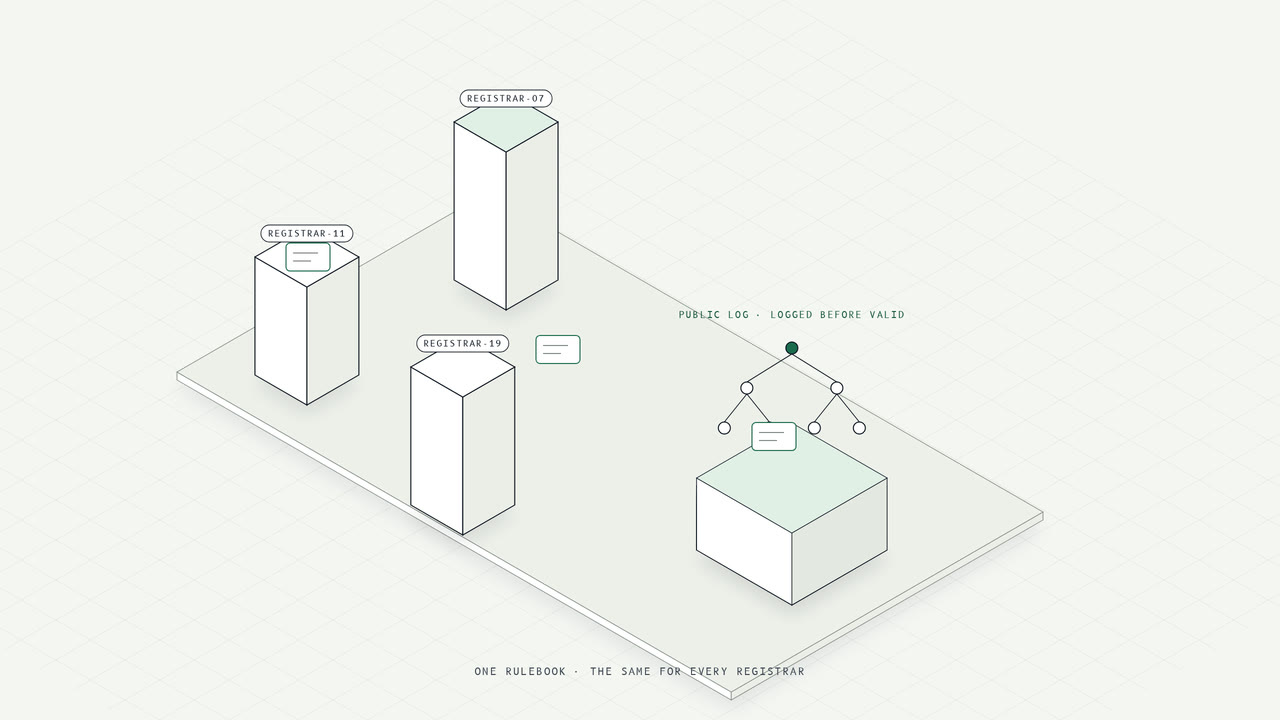
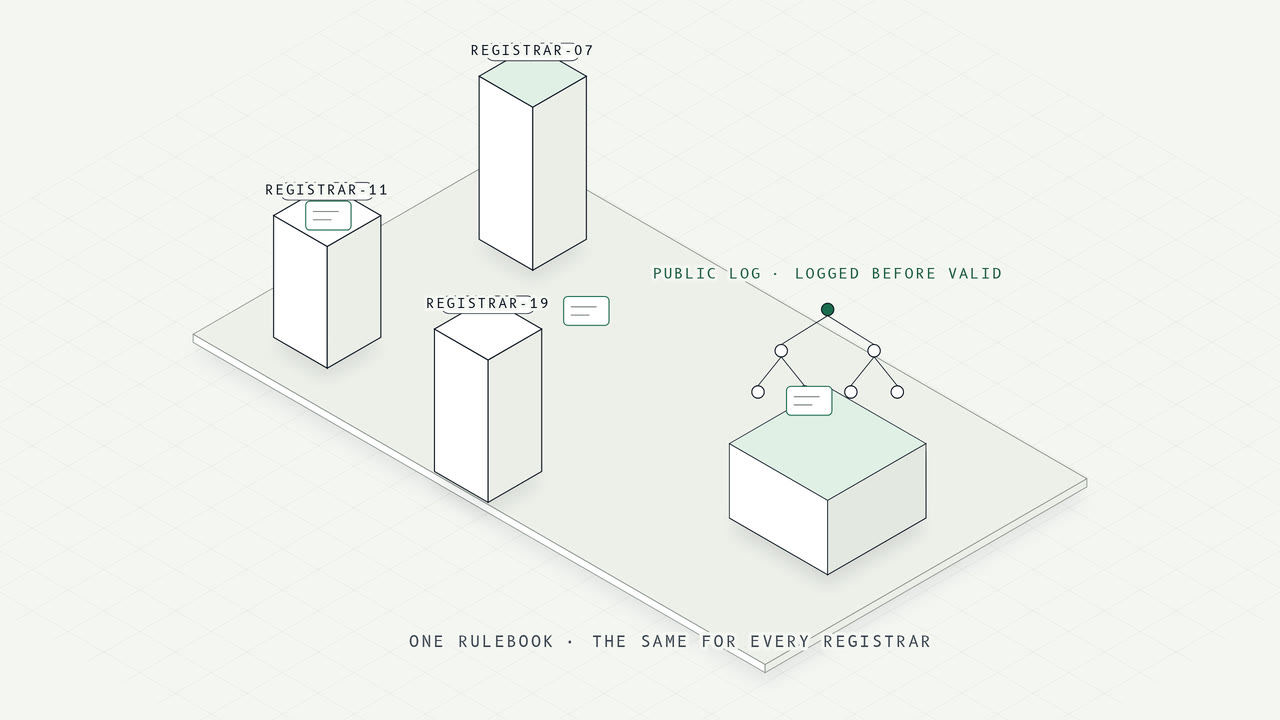
site: words in the drawings readable, Verify paced for a first visit, phone carousel, control room in the menu
From the owner's review of the live site on a phone and a designer's notes:
- every drawing re-rendered from its source with larger, higher-contrast labels (carousel
  scenes x1.6, part previews x1.5, blueprint labels +20% and brighter); collisions fixed
- the "who runs it" panels: the original drawings, centred and a little closer
- Verify clip 16.4 s (scene at 70%, blueprint drawn in fully, 2.5 s hold); dwell follows it
- the caption steps aside while a clip shows its blueprint (data-bp)
- preview popup gets an outer stroke; an icon heads each "what every check asks" card
- phones: chips are one swipe row kept in view, arrows under the clip, no caption box,
  no details panel
- the control room is linked from the menu and footer of every page (owner's choice)
- media re-pinned in MEDIA.sha256 (12 clips), cache versions bumped

diff --git a/site/index.html b/site/index.html
@@ -124,6 +124,7 @@ setTimeout(function(){var h=document.documentElement;if(!h.dataset.rvReady)h.cla
           <li><a href="verify.html">Verify</a><ul><li><a href="verify.html#try">↳ Try a passport</a></li><li><a href="docs.html#verify">↳ How a check works</a></li></ul></li>
           <li><a href="get.html">Network</a></li>
           <li><a href="landscape.html">Landscape</a></li>
+          <li><a href="control.html">Control room</a></li>
           <li><a href="foundation.html">Foundation</a><ul><li><a href="foundation.html#access">↳ Join the founding table</a></li></ul></li>
           <li><a href="docs.html">Docs</a><ul><li><a href="docs.html#standard">↳ The Standard</a></li><li><a href="docs.html#install">↳ Install</a></li></ul></li>
         </ul>
@@ -202,13 +203,13 @@ setTimeout(function(){var h=document.documentElement;if(!h.dataset.rvReady)h.cla
       </div>
       <div class="g-car" data-car aria-roledescription="carousel"><div class="g-car__track" data-car-track></div></div>
       <ol class="vh" data-tab-data>
-        <li data-k="Delegate" data-t="Your agent shows its passport before it pays" data-href="verify.html#try" data-src="media/g/delegate.mp4?v=4"></li>
-        <li data-k="Issue" data-t="A passport is valid only once it is logged" data-href="docs.html#verify" data-src="media/g/issue.mp4?v=4"></li>
-        <li data-k="Verify" data-t="Every request checked on the verifier's own machine" data-href="verify.html#try" data-src="media/g/gate.mp4?v=4"></li>
-        <li data-k="Revoke" data-t="One bit set, and every verifier that checks refuses" data-href="docs.html#verify" data-src="media/g/revoke.mp4?v=4"></li>
-        <li data-k="Running copies" data-t="Each copy carries its own short-lived key" data-href="docs.html#install" data-src="media/g/copies.mp4?v=4"></li>
-        <li data-k="Offline" data-t="No signal, and the check still runs" data-href="https://github.com/JacobJandon/ainra/blob/main/docs/drills/REGISTRAR-DARK.md" data-src="media/g/offline.mp4?v=4"></li>
-        <li data-k="Peer to peer" data-t="Agents present to verifiers; the root is not on the path" data-href="landscape.html" data-src="media/g/network.mp4?v=4"></li>
+        <li data-k="Delegate" data-t="Your agent shows its passport before it pays" data-href="verify.html#try" data-src="media/g/delegate.mp4?v=5" data-bp="3.9"></li>
+        <li data-k="Issue" data-t="A passport is valid only once it is logged" data-href="docs.html#verify" data-src="media/g/issue.mp4?v=5" data-bp="3.9"></li>
+        <li data-k="Verify" data-t="Every request checked on the verifier's own machine" data-href="verify.html#try" data-src="media/g/gate.mp4?v=5" data-bp="5.9"></li>
+        <li data-k="Revoke" data-t="One bit set, and every verifier that checks refuses" data-href="docs.html#verify" data-src="media/g/revoke.mp4?v=5" data-bp="3.9"></li>
+        <li data-k="Running copies" data-t="Each copy carries its own short-lived key" data-href="docs.html#install" data-src="media/g/copies.mp4?v=5" data-bp="3.9"></li>
+        <li data-k="Offline" data-t="No signal, and the check still runs" data-href="https://github.com/JacobJandon/ainra/blob/main/docs/drills/REGISTRAR-DARK.md" data-src="media/g/offline.mp4?v=5" data-bp="3.9"></li>
+        <li data-k="Peer to peer" data-t="Agents present to verifiers; the root is not on the path" data-href="landscape.html" data-src="media/g/network.mp4?v=5" data-bp="3.9"></li>
       </ol>
     </div>
   </div>
@@ -223,25 +224,25 @@ setTimeout(function(){var h=document.documentElement;if(!h.dataset.rvReady)h.cla
   <div class="wrap">
     <div class="g-list__head"><h2 class="g-list__label" id="g-parts">What AINRA is made of</h2></div>
     <ol class="g-rows">
-      <li><a class="g-row" href="docs.html#standard" data-preview="media/g/part-standard.jpg?v=1" data-preview-video="media/g/part-standard.mp4?v=1"><span class="g-row__name">The Standard</span><span class="g-row__d">Defines one passport, and how anyone checks it.</span><span class="g-row__i">/0.1</span></a></li>
-      <li><a class="g-row" href="verify.html#try" data-preview="media/g/part-verifier.jpg?v=1" data-preview-video="media/g/part-verifier.mp4?v=1"><span class="g-row__name">The verifier</span><span class="g-row__d">Checks a passport on your own machine — offline, fail-closed.</span><span class="g-row__i">/0.2</span></a></li>
-      <li><a class="g-row" href="get.html" data-preview="media/g/part-registrars.jpg?v=1" data-preview-video="media/g/part-registrars.mp4?v=1"><span class="g-row__name">Registrars</span><span class="g-row__d">Issue passports under the same published rules, and log each one first.</span><span class="g-row__i">/0.3</span></a></li>
-      <li><a class="g-row" href="docs.html#verify" data-preview="media/g/part-revocation.jpg?v=1" data-preview-video="media/g/part-revocation.mp4?v=1"><span class="g-row__name">Revocation</span><span class="g-row__d">Sets one bit in a signed list; every verifier that checks refuses.</span><span class="g-row__i">/0.4</span></a></li>
-      <li><a class="g-row" href="docs.html#install" data-preview="media/g/part-copies.jpg?v=1" data-preview-video="media/g/part-copies.mp4?v=1"><span class="g-row__name">Running copies</span><span class="g-row__d">Give every instance its own short-lived key.</span><span class="g-row__i">/0.5</span></a></li>
+      <li><a class="g-row" href="docs.html#standard" data-preview="media/g/part-standard.jpg?v=2" data-preview-video="media/g/part-standard.mp4?v=2"><span class="g-row__name">The Standard</span><span class="g-row__d">Defines one passport, and how anyone checks it.</span><span class="g-row__i">/0.1</span></a></li>
+      <li><a class="g-row" href="verify.html#try" data-preview="media/g/part-verifier.jpg?v=2" data-preview-video="media/g/part-verifier.mp4?v=2"><span class="g-row__name">The verifier</span><span class="g-row__d">Checks a passport on your own machine — offline, fail-closed.</span><span class="g-row__i">/0.2</span></a></li>
+      <li><a class="g-row" href="get.html" data-preview="media/g/part-registrars.jpg?v=2" data-preview-video="media/g/part-registrars.mp4?v=2"><span class="g-row__name">Registrars</span><span class="g-row__d">Issue passports under the same published rules, and log each one first.</span><span class="g-row__i">/0.3</span></a></li>
+      <li><a class="g-row" href="docs.html#verify" data-preview="media/g/part-revocation.jpg?v=2" data-preview-video="media/g/part-revocation.mp4?v=2"><span class="g-row__name">Revocation</span><span class="g-row__d">Sets one bit in a signed list; every verifier that checks refuses.</span><span class="g-row__i">/0.4</span></a></li>
+      <li><a class="g-row" href="docs.html#install" data-preview="media/g/part-copies.jpg?v=2" data-preview-video="media/g/part-copies.mp4?v=2"><span class="g-row__name">Running copies</span><span class="g-row__d">Give every instance its own short-lived key.</span><span class="g-row__i">/0.5</span></a></li>
     </ol>
-    <figure class="g-preview" aria-hidden="true"><img alt="" src="media/g/part-standard.jpg?v=1" width="1280" height="720"><video muted playsinline loop preload="none"></video></figure>
+    <figure class="g-preview" aria-hidden="true"><img alt="" src="media/g/part-standard.jpg?v=2" width="1280" height="720"><video muted playsinline loop preload="none"></video></figure>
   </div>
 </section>
 
 <section class="g-grey g-duo" aria-label="Who runs it">
   <div class="wrap">
     <div class="g-duo__row">
-      <figure class="g-duo__img"><img src="media/g/root.jpg?v=2" alt="The root at the centre of three rings: registrars, agents and verifiers; nine keys above it, five lit." width="1280" height="720" loading="lazy"></figure>
+      <figure class="g-duo__img"><img src="media/g/root.jpg?v=4" alt="The root at the centre of three rings: registrars, agents and verifiers; nine keys above it, five lit." width="1280" height="720" loading="lazy"></figure>
       <div class="g-duo__card"><p>No one company runs the root. Registrars, custodians and witnesses share it, under one published rulebook.</p><a class="btn btn-ghost" href="foundation.html#access">Join the founding table</a></div>
     </div>
     <div class="g-duo__row g-duo__row--flip">
       <div class="g-duo__card"><p>Everything here is public: the Standard, the code, every decision, and the two numbers that are still zero.</p><a class="btn btn-ghost" href="https://github.com/JacobJandon/ainra">Read the source</a></div>
-      <figure class="g-duo__img"><img src="media/g/revoke.jpg?v=2" alt="A signed status list with one bit set to revoked, and six verifiers each refusing." width="1280" height="720" loading="lazy"></figure>
+      <figure class="g-duo__img"><img src="media/g/revoke.jpg?v=4" alt="A signed status list with one bit set to revoked, and six verifiers each refusing." width="1280" height="720" loading="lazy"></figure>
     </div>
   </div>
 </section>
@@ -251,18 +252,18 @@ setTimeout(function(){var h=document.documentElement;if(!h.dataset.rvReady)h.cla
     <div class="g-asks__head"><h2 class="g-asks__h" id="g-asks-h">What every check asks of an agent</h2><div class="g-asks__nav"><button type="button" class="g-sq" data-asks="-1" aria-label="Previous cards"><svg viewBox="0 0 16 16" aria-hidden="true"><path d="M10 3L5 8l5 5" fill="none" stroke="currentColor" stroke-width="1.5"/></svg></button><button type="button" class="g-sq" data-asks="1" aria-label="Next cards"><svg viewBox="0 0 16 16" aria-hidden="true"><path d="M6 3l5 5-5 5" fill="none" stroke="currentColor" stroke-width="1.5"/></svg></button></div></div>
   </div>
   <div class="g-asks__track" tabindex="0" role="region" aria-labelledby="g-asks-h">
-    <article class="g-ask"><span class="g-ask__k">Who it is</span><p>A lineage and a version — the agent itself, separate from any person behind it.</p></article>
-    <article class="g-ask"><span class="g-ask__k">Who stands behind it</span><p>An operator, proven to an accredited registrar. The root never sees who.</p></article>
-    <article class="g-ask"><span class="g-ask__k">What it may do</span><p>An authority class and a scope ceiling, signed. Running copies get narrower, shorter-lived keys.</p></article>
-    <article class="g-ask"><span class="g-ask__k">Whether it is still trusted</span><p>A registrar-signed status, checked fresh. No fresh status, no entry: it fails closed.</p></article>
-    <article class="g-ask"><span class="g-ask__k">Whether it was logged</span><p>Every passport is written to a public log before it is valid, so nothing is issued in secret.</p></article>
-    <article class="g-ask"><span class="g-ask__k">Whether this request is its own</span><p>Each request is signed by the running copy's own key, bound to one method, host and path.</p></article>
-    <article class="g-ask" aria-hidden="true" data-clone><span class="g-ask__k">Who it is</span><p>A lineage and a version — the agent itself, separate from any person behind it.</p></article>
-    <article class="g-ask" aria-hidden="true" data-clone><span class="g-ask__k">Who stands behind it</span><p>An operator, proven to an accredited registrar. The root never sees who.</p></article>
-    <article class="g-ask" aria-hidden="true" data-clone><span class="g-ask__k">What it may do</span><p>An authority class and a scope ceiling, signed. Running copies get narrower, shorter-lived keys.</p></article>
-    <article class="g-ask" aria-hidden="true" data-clone><span class="g-ask__k">Whether it is still trusted</span><p>A registrar-signed status, checked fresh. No fresh status, no entry: it fails closed.</p></article>
-    <article class="g-ask" aria-hidden="true" data-clone><span class="g-ask__k">Whether it was logged</span><p>Every passport is written to a public log before it is valid, so nothing is issued in secret.</p></article>
-    <article class="g-ask" aria-hidden="true" data-clone><span class="g-ask__k">Whether this request is its own</span><p>Each request is signed by the running copy's own key, bound to one method, host and path.</p></article>
+    <article class="g-ask"><div class="g-ask__top"><span class="g-ask__i"><svg viewBox="0 0 24 24" fill="none" stroke="currentColor" stroke-width="1.5" aria-hidden="true"><rect x="3" y="5" width="18" height="14" rx="1.5"/><circle cx="9" cy="11" r="2.4" class="acc"/><path d="M5.8 16.2c.6-1.6 1.8-2.4 3.2-2.4s2.6.8 3.2 2.4M14.5 10h4M14.5 13h3"/></svg></span><span class="g-ask__k">Who it is</span></div><p>A lineage and a version — the agent itself, separate from any person behind it.</p></article>
+    <article class="g-ask"><div class="g-ask__top"><span class="g-ask__i"><svg viewBox="0 0 24 24" fill="none" stroke="currentColor" stroke-width="1.5" aria-hidden="true"><path d="M4 20V8l6-3v15M10 20V9l10 3v8M2.5 20h19"/><path d="M13 14h2M13 17h2M16.5 14h1M16.5 17h1M6.5 11h1M6.5 14h1M6.5 17h1"/><path d="M15 4.5l1.6 1.6L19.5 3" class="acc"/></svg></span><span class="g-ask__k">Who stands behind it</span></div><p>An operator, proven to an accredited registrar. The root never sees who.</p></article>
+    <article class="g-ask"><div class="g-ask__top"><span class="g-ask__i"><svg viewBox="0 0 24 24" fill="none" stroke="currentColor" stroke-width="1.5" aria-hidden="true"><rect x="3" y="3" width="18" height="18" rx="1"/><rect x="7" y="7" width="10" height="10" rx="1" stroke-dasharray="2 2"/><rect x="10" y="10" width="4" height="4" class="acc"/></svg></span><span class="g-ask__k">What it may do</span></div><p>An authority class and a scope ceiling, signed. Running copies get narrower, shorter-lived keys.</p></article>
+    <article class="g-ask"><div class="g-ask__top"><span class="g-ask__i"><svg viewBox="0 0 24 24" fill="none" stroke="currentColor" stroke-width="1.5" aria-hidden="true"><circle cx="12" cy="12" r="8.5"/><path d="M12 7v5l3 2"/><path d="M15.5 19.2l1.8 1.8 3.4-3.6" class="acc"/></svg></span><span class="g-ask__k">Whether it is still trusted</span></div><p>A registrar-signed status, checked fresh. No fresh status, no entry: it fails closed.</p></article>
+    <article class="g-ask"><div class="g-ask__top"><span class="g-ask__i"><svg viewBox="0 0 24 24" fill="none" stroke="currentColor" stroke-width="1.5" aria-hidden="true"><circle cx="12" cy="4.5" r="1.8" class="acc"/><path d="M12 6.3v3M7 12.5V9.3h10v3.2"/><rect x="4.5" y="12.5" width="5" height="4"/><rect x="14.5" y="12.5" width="5" height="4"/><path d="M3 20.5h18"/></svg></span><span class="g-ask__k">Whether it was logged</span></div><p>Every passport is written to a public log before it is valid, so nothing is issued in secret.</p></article>
+    <article class="g-ask"><div class="g-ask__top"><span class="g-ask__i"><svg viewBox="0 0 24 24" fill="none" stroke="currentColor" stroke-width="1.5" aria-hidden="true"><path d="M4 4h11l5 5v11H4z"/><path d="M15 4v5h5M7.5 12h6M7.5 15h4"/><path d="M12.5 18.5c1-1.4 1.8-1.4 2.2 0 .4 1.3 1.2 1.3 2.2-.2" class="acc"/></svg></span><span class="g-ask__k">Whether this request is its own</span></div><p>Each request is signed by the running copy's own key, bound to one method, host and path.</p></article>
+    <article class="g-ask" aria-hidden="true" data-clone><div class="g-ask__top"><span class="g-ask__i"><svg viewBox="0 0 24 24" fill="none" stroke="currentColor" stroke-width="1.5" aria-hidden="true"><rect x="3" y="5" width="18" height="14" rx="1.5"/><circle cx="9" cy="11" r="2.4" class="acc"/><path d="M5.8 16.2c.6-1.6 1.8-2.4 3.2-2.4s2.6.8 3.2 2.4M14.5 10h4M14.5 13h3"/></svg></span><span class="g-ask__k">Who it is</span></div><p>A lineage and a version — the agent itself, separate from any person behind it.</p></article>
+    <article class="g-ask" aria-hidden="true" data-clone><div class="g-ask__top"><span class="g-ask__i"><svg viewBox="0 0 24 24" fill="none" stroke="currentColor" stroke-width="1.5" aria-hidden="true"><path d="M4 20V8l6-3v15M10 20V9l10 3v8M2.5 20h19"/><path d="M13 14h2M13 17h2M16.5 14h1M16.5 17h1M6.5 11h1M6.5 14h1M6.5 17h1"/><path d="M15 4.5l1.6 1.6L19.5 3" class="acc"/></svg></span><span class="g-ask__k">Who stands behind it</span></div><p>An operator, proven to an accredited registrar. The root never sees who.</p></article>
+    <article class="g-ask" aria-hidden="true" data-clone><div class="g-ask__top"><span class="g-ask__i"><svg viewBox="0 0 24 24" fill="none" stroke="currentColor" stroke-width="1.5" aria-hidden="true"><rect x="3" y="3" width="18" height="18" rx="1"/><rect x="7" y="7" width="10" height="10" rx="1" stroke-dasharray="2 2"/><rect x="10" y="10" width="4" height="4" class="acc"/></svg></span><span class="g-ask__k">What it may do</span></div><p>An authority class and a scope ceiling, signed. Running copies get narrower, shorter-lived keys.</p></article>
+    <article class="g-ask" aria-hidden="true" data-clone><div class="g-ask__top"><span class="g-ask__i"><svg viewBox="0 0 24 24" fill="none" stroke="currentColor" stroke-width="1.5" aria-hidden="true"><circle cx="12" cy="12" r="8.5"/><path d="M12 7v5l3 2"/><path d="M15.5 19.2l1.8 1.8 3.4-3.6" class="acc"/></svg></span><span class="g-ask__k">Whether it is still trusted</span></div><p>A registrar-signed status, checked fresh. No fresh status, no entry: it fails closed.</p></article>
+    <article class="g-ask" aria-hidden="true" data-clone><div class="g-ask__top"><span class="g-ask__i"><svg viewBox="0 0 24 24" fill="none" stroke="currentColor" stroke-width="1.5" aria-hidden="true"><circle cx="12" cy="4.5" r="1.8" class="acc"/><path d="M12 6.3v3M7 12.5V9.3h10v3.2"/><rect x="4.5" y="12.5" width="5" height="4"/><rect x="14.5" y="12.5" width="5" height="4"/><path d="M3 20.5h18"/></svg></span><span class="g-ask__k">Whether it was logged</span></div><p>Every passport is written to a public log before it is valid, so nothing is issued in secret.</p></article>
+    <article class="g-ask" aria-hidden="true" data-clone><div class="g-ask__top"><span class="g-ask__i"><svg viewBox="0 0 24 24" fill="none" stroke="currentColor" stroke-width="1.5" aria-hidden="true"><path d="M4 4h11l5 5v11H4z"/><path d="M15 4v5h5M7.5 12h6M7.5 15h4"/><path d="M12.5 18.5c1-1.4 1.8-1.4 2.2 0 .4 1.3 1.2 1.3 2.2-.2" class="acc"/></svg></span><span class="g-ask__k">Whether this request is its own</span></div><p>Each request is signed by the running copy's own key, bound to one method, host and path.</p></article>
   </div>
 </section>
 
@@ -327,6 +328,7 @@ setTimeout(function(){var h=document.documentElement;if(!h.dataset.rvReady)h.cla
         <ul>
           <li><a href="AINRA_I_The_Standard.md" download>Canonical file (raw)</a></li>
           <li><a href="foundation.html#release-integrity">Release integrity</a></li>
+          <li><a href="control.html">Control room</a></li>
           <li><a href="https://github.com/JacobJandon/ainra/blob/main/docs/DECISIONS.md" rel="noopener">Decision log</a></li>
           <li><a href="https://github.com/JacobJandon/ainra/blob/main/docs/TRADEOFFS.md" rel="noopener">Trade-offs</a></li>
           <li><a href="https://github.com/JacobJandon/ainra/blob/main/SECURITY.md" rel="noopener">Security</a></li>

diff --git a/site/css/g.css b/site/css/g.css
@@ -657,3 +657,33 @@ nav:not([class]) .brand .wm{font-size:18px;line-height:20px}
 nav:not([class]) .nav-r .g-menubtn,nav:not([class]) .nav-r .g-sq{min-width:40px;max-width:40px;padding:0}
 /* on wide screens the header stops at the reference's width (about 1480 px) and sits centred */
 @media (min-width:701px){nav:not([class]) .nav-in,html.nav-float nav:not([class]) .nav-in{max-width:1480px;margin-left:auto;margin-right:auto}}
+
+/* ── 2026-11-06 owner review ──────────────────────────────────────────────────────────────────────────────────────
+   the preview over "What AINRA is made of": a clear outer stroke so the drawing's frame reads as a frame */
+.g-preview{border:2px solid var(--ink);box-shadow:0 18px 40px -24px rgba(11,18,32,.45)}
+.g-duo__img img{object-position:50% 50%}
+/* "What every check asks of an agent": an icon heads each card */
+.g-ask__top{display:flex;flex-direction:column;gap:18px}
+.g-ask__i{display:inline-flex;width:48px;height:48px;align-items:center;justify-content:center;border:1.5px solid var(--ink);background:var(--card);color:var(--ink)}
+.g-ask__i svg{width:28px;height:28px}
+.g-ask__i .acc{stroke:var(--green,#1A6B4E)}
+/* phones: the chips are one swipeable row the width of the screen (the current chip is kept in view by g.mjs),
+   "See all" gives its room to them; the arrows sit in a row under the clip instead of on it; the caption box is
+   dropped — the chip already names the clip and the clip says the rest */
+@media (max-width:800px){
+  .g-tabs__bar{margin-bottom:18px;gap:0}
+  .g-tabs__chips{flex:1 1 100%;gap:8px;margin:0 -16px;padding:2px 16px 6px;scrollbar-width:none;-webkit-mask-image:linear-gradient(90deg,transparent 0,#000 16px,#000 calc(100% - 28px),transparent 100%);mask-image:linear-gradient(90deg,transparent 0,#000 16px,#000 calc(100% - 28px),transparent 100%)}
+  .g-tabs__chips::-webkit-scrollbar{display:none}
+  .g-tabs__chips button{font-size:15px;padding:9px 12px}
+  .g-tabs__all{display:none}
+  .g-car__card{background:transparent;padding-bottom:58px}
+  .g-car__card video{background:var(--paper)}
+  .g-car .g-tabs__label{display:none}
+  .g-car__arr{top:auto;bottom:4px;margin-top:0;width:64px;height:44px;background:var(--card);border-color:var(--ink);-webkit-backdrop-filter:none;backdrop-filter:none}
+  .g-car__arr--prev{left:calc(50% - 68px)}.g-car__arr--next{right:calc(50% - 68px)}
+}
+/* the caption steps aside while a clip shows its blueprint (g.mjs sets .is-bp from the clip's data-bp) */
+.g-car__card .g-tabs__label{transition:opacity .45s ease,transform .45s ease}
+.g-car__card.is-bp .g-tabs__label{opacity:0;transform:translateY(-10px);pointer-events:none}
+/* phones: the details panel is dropped too — the page below says the same, and on a small screen it covers it */
+@media (max-width:800px){.g-side{display:none}}

diff --git a/site/control.html b/site/control.html
@@ -292,6 +292,7 @@ setTimeout(function(){var h=document.documentElement;if(!h.dataset.rvReady)h.cla
           <li><a href="verify.html">Verify</a><ul><li><a href="verify.html#try">↳ Try a passport</a></li><li><a href="docs.html#verify">↳ How a check works</a></li></ul></li>
           <li><a href="get.html">Network</a></li>
           <li><a href="landscape.html">Landscape</a></li>
+          <li><a href="control.html">Control room</a></li>
           <li><a href="foundation.html">Foundation</a><ul><li><a href="foundation.html#access">↳ Join the founding table</a></li></ul></li>
           <li><a href="docs.html">Docs</a><ul><li><a href="docs.html#standard">↳ The Standard</a></li><li><a href="docs.html#install">↳ Install</a></li></ul></li>
         </ul>
@@ -435,6 +436,7 @@ setTimeout(function(){var h=document.documentElement;if(!h.dataset.rvReady)h.cla
         <ul>
           <li><a href="AINRA_I_The_Standard.md" download>Canonical file (raw)</a></li>
           <li><a href="foundation.html#release-integrity">Release integrity</a></li>
+          <li><a href="control.html">Control room</a></li>
           <li><a href="https://github.com/JacobJandon/ainra/blob/main/docs/DECISIONS.md" rel="noopener">Decision log</a></li>
           <li><a href="https://github.com/JacobJandon/ainra/blob/main/docs/TRADEOFFS.md" rel="noopener">Trade-offs</a></li>
           <li><a href="https://github.com/JacobJandon/ainra/blob/main/SECURITY.md" rel="noopener">Security</a></li>

diff --git a/site/docs.html b/site/docs.html
@@ -209,6 +209,7 @@ setTimeout(function(){var h=document.documentElement;if(!h.dataset.rvReady)h.cla
           <li><a href="verify.html">Verify</a><ul><li><a href="verify.html#try">↳ Try a passport</a></li><li><a href="docs.html#verify">↳ How a check works</a></li></ul></li>
           <li><a href="get.html">Network</a></li>
           <li><a href="landscape.html">Landscape</a></li>
+          <li><a href="control.html">Control room</a></li>
           <li><a href="foundation.html">Foundation</a><ul><li><a href="foundation.html#access">↳ Join the founding table</a></li></ul></li>
           <li><a href="docs.html">Docs</a><ul><li><a href="docs.html#standard">↳ The Standard</a></li><li><a href="docs.html#install">↳ Install</a></li></ul></li>
         </ul>
@@ -771,6 +772,7 @@ $ make repro                          <span class="c"># byte-exact rebuild — t
         <ul>
           <li><a href="AINRA_I_The_Standard.md" download>Canonical file (raw)</a></li>
           <li><a href="foundation.html#release-integrity">Release integrity</a></li>
+          <li><a href="control.html">Control room</a></li>
           <li><a href="https://github.com/JacobJandon/ainra/blob/main/docs/DECISIONS.md" rel="noopener">Decision log</a></li>
           <li><a href="https://github.com/JacobJandon/ainra/blob/main/docs/TRADEOFFS.md" rel="noopener">Trade-offs</a></li>
           <li><a href="https://github.com/JacobJandon/ainra/blob/main/SECURITY.md" rel="noopener">Security</a></li>

diff --git a/site/get.html b/site/get.html
@@ -164,6 +164,7 @@ setTimeout(function(){var h=document.documentElement;if(!h.dataset.rvReady)h.cla
           <li><a href="verify.html">Verify</a><ul><li><a href="verify.html#try">↳ Try a passport</a></li><li><a href="docs.html#verify">↳ How a check works</a></li></ul></li>
           <li><a href="get.html">Network</a></li>
           <li><a href="landscape.html">Landscape</a></li>
+          <li><a href="control.html">Control room</a></li>
           <li><a href="foundation.html">Foundation</a><ul><li><a href="foundation.html#access">↳ Join the founding table</a></li></ul></li>
           <li><a href="docs.html">Docs</a><ul><li><a href="docs.html#standard">↳ The Standard</a></li><li><a href="docs.html#install">↳ Install</a></li></ul></li>
         </ul>
@@ -444,6 +445,7 @@ setTimeout(function(){var h=document.documentElement;if(!h.dataset.rvReady)h.cla
         <ul>
           <li><a href="AINRA_I_The_Standard.md" download>Canonical file (raw)</a></li>
           <li><a href="foundation.html#release-integrity">Release integrity</a></li>
+          <li><a href="control.html">Control room</a></li>
           <li><a href="https://github.com/JacobJandon/ainra/blob/main/docs/DECISIONS.md" rel="noopener">Decision log</a></li>
           <li><a href="https://github.com/JacobJandon/ainra/blob/main/docs/TRADEOFFS.md" rel="noopener">Trade-offs</a></li>
           <li><a href="https://github.com/JacobJandon/ainra/blob/main/SECURITY.md" rel="noopener">Security</a></li>

diff --git a/site/landscape.html b/site/landscape.html
@@ -103,6 +103,7 @@ setTimeout(function(){var h=document.documentElement;if(!h.dataset.rvReady)h.cla
           <li><a href="verify.html">Verify</a><ul><li><a href="verify.html#try">↳ Try a passport</a></li><li><a href="docs.html#verify">↳ How a check works</a></li></ul></li>
           <li><a href="get.html">Network</a></li>
           <li><a href="landscape.html">Landscape</a></li>
+          <li><a href="control.html">Control room</a></li>
           <li><a href="foundation.html">Foundation</a><ul><li><a href="foundation.html#access">↳ Join the founding table</a></li></ul></li>
           <li><a href="docs.html">Docs</a><ul><li><a href="docs.html#standard">↳ The Standard</a></li><li><a href="docs.html#install">↳ Install</a></li></ul></li>
         </ul>
@@ -262,6 +263,7 @@ setTimeout(function(){var h=document.documentElement;if(!h.dataset.rvReady)h.cla
         <ul>
           <li><a href="AINRA_I_The_Standard.md" download>Canonical file (raw)</a></li>
           <li><a href="foundation.html#release-integrity">Release integrity</a></li>
+          <li><a href="control.html">Control room</a></li>
           <li><a href="https://github.com/JacobJandon/ainra/blob/main/docs/DECISIONS.md" rel="noopener">Decision log</a></li>
           <li><a href="https://github.com/JacobJandon/ainra/blob/main/docs/TRADEOFFS.md" rel="noopener">Trade-offs</a></li>
           <li><a href="https://github.com/JacobJandon/ainra/blob/main/SECURITY.md" rel="noopener">Security</a></li>

diff --git a/site/request-demo.html b/site/request-demo.html
@@ -117,6 +117,7 @@ setTimeout(function(){var h=document.documentElement;if(!h.dataset.rvReady)h.cla
           <li><a href="verify.html">Verify</a><ul><li><a href="verify.html#try">↳ Try a passport</a></li><li><a href="docs.html#verify">↳ How a check works</a></li></ul></li>
           <li><a href="get.html">Network</a></li>
           <li><a href="landscape.html">Landscape</a></li>
+          <li><a href="control.html">Control room</a></li>
           <li><a href="foundation.html">Foundation</a><ul><li><a href="foundation.html#access">↳ Join the founding table</a></li></ul></li>
           <li><a href="docs.html">Docs</a><ul><li><a href="docs.html#standard">↳ The Standard</a></li><li><a href="docs.html#install">↳ Install</a></li></ul></li>
         </ul>
@@ -289,6 +290,7 @@ setTimeout(function(){var h=document.documentElement;if(!h.dataset.rvReady)h.cla
         <ul>
           <li><a href="AINRA_I_The_Standard.md" download>Canonical file (raw)</a></li>
           <li><a href="foundation.html#release-integrity">Release integrity</a></li>
+          <li><a href="control.html">Control room</a></li>
           <li><a href="https://github.com/JacobJandon/ainra/blob/main/docs/DECISIONS.md" rel="noopener">Decision log</a></li>
           <li><a href="https://github.com/JacobJandon/ainra/blob/main/docs/TRADEOFFS.md" rel="noopener">Trade-offs</a></li>
           <li><a href="https://github.com/JacobJandon/ainra/blob/main/SECURITY.md" rel="noopener">Security</a></li>

diff --git a/site/foundation.html b/site/foundation.html
@@ -156,6 +156,7 @@ setTimeout(function(){var h=document.documentElement;if(!h.dataset.rvReady)h.cla
           <li><a href="verify.html">Verify</a><ul><li><a href="verify.html#try">↳ Try a passport</a></li><li><a href="docs.html#verify">↳ How a check works</a></li></ul></li>
           <li><a href="get.html">Network</a></li>
           <li><a href="landscape.html">Landscape</a></li>
+          <li><a href="control.html">Control room</a></li>
           <li><a href="foundation.html">Foundation</a><ul><li><a href="foundation.html#access">↳ Join the founding table</a></li></ul></li>
           <li><a href="docs.html">Docs</a><ul><li><a href="docs.html#standard">↳ The Standard</a></li><li><a href="docs.html#install">↳ Install</a></li></ul></li>
         </ul>
@@ -445,6 +446,7 @@ setTimeout(function(){var h=document.documentElement;if(!h.dataset.rvReady)h.cla
         <ul>
           <li><a href="AINRA_I_The_Standard.md" download>Canonical file (raw)</a></li>
           <li><a href="#release-integrity">Release integrity</a></li>
+          <li><a href="control.html">Control room</a></li>
           <li><a href="https://github.com/JacobJandon/ainra/blob/main/docs/DECISIONS.md" rel="noopener">Decision log</a></li>
           <li><a href="https://github.com/JacobJandon/ainra/blob/main/docs/TRADEOFFS.md" rel="noopener">Trade-offs</a></li>
           <li><a href="https://github.com/JacobJandon/ainra/blob/main/SECURITY.md" rel="noopener">Security</a></li>

diff --git a/site/verify.html b/site/verify.html
@@ -236,6 +236,7 @@ setTimeout(function(){var h=document.documentElement;if(!h.dataset.rvReady)h.cla
           <li><a href="verify.html">Verify</a><ul><li><a href="verify.html#try">↳ Try a passport</a></li><li><a href="docs.html#verify">↳ How a check works</a></li></ul></li>
           <li><a href="get.html">Network</a></li>
           <li><a href="landscape.html">Landscape</a></li>
+          <li><a href="control.html">Control room</a></li>
           <li><a href="foundation.html">Foundation</a><ul><li><a href="foundation.html#access">↳ Join the founding table</a></li></ul></li>
           <li><a href="docs.html">Docs</a><ul><li><a href="docs.html#standard">↳ The Standard</a></li><li><a href="docs.html#install">↳ Install</a></li></ul></li>
         </ul>
@@ -545,6 +546,7 @@ $ ainra verify ./reg ainra:registrar-07:acme:invoicing@1.0.0
         <ul>
           <li><a href="AINRA_I_The_Standard.md" download>Canonical file (raw)</a></li>
           <li><a href="foundation.html#release-integrity">Release integrity</a></li>
+          <li><a href="control.html">Control room</a></li>
           <li><a href="https://github.com/JacobJandon/ainra/blob/main/docs/DECISIONS.md" rel="noopener">Decision log</a></li>
           <li><a href="https://github.com/JacobJandon/ainra/blob/main/docs/TRADEOFFS.md" rel="noopener">Trade-offs</a></li>
           <li><a href="https://github.com/JacobJandon/ainra/blob/main/SECURITY.md" rel="noopener">Security</a></li>

diff --git a/site/404.html b/site/404.html
@@ -104,6 +104,7 @@ main.nf{padding-top:clamp(104px,9vw,140px)}
           <li><a href="/verify.html">Verify</a><ul><li><a href="/verify.html#try">↳ Try a passport</a></li><li><a href="/docs.html#verify">↳ How a check works</a></li></ul></li>
           <li><a href="/get.html">Network</a></li>
           <li><a href="/landscape.html">Landscape</a></li>
+          <li><a href="/control.html">Control room</a></li>
           <li><a href="/foundation.html">Foundation</a><ul><li><a href="/foundation.html#access">↳ Join the founding table</a></li></ul></li>
           <li><a href="/docs.html">Docs</a><ul><li><a href="/docs.html#standard">↳ The Standard</a></li><li><a href="/docs.html#install">↳ Install</a></li></ul></li>
         </ul>
@@ -211,6 +212,7 @@ main.nf{padding-top:clamp(104px,9vw,140px)}
         <ul>
           <li><a href="/AINRA_I_The_Standard.md" download>Canonical file (raw)</a></li>
           <li><a href="/foundation.html#release-integrity">Release integrity</a></li>
+          <li><a href="/control.html">Control room</a></li>
           <li><a href="https://github.com/JacobJandon/ainra/blob/main/docs/DECISIONS.md" rel="noopener">Decision log</a></li>
           <li><a href="https://github.com/JacobJandon/ainra/blob/main/docs/TRADEOFFS.md" rel="noopener">Trade-offs</a></li>
           <li><a href="https://github.com/JacobJandon/ainra/blob/main/SECURITY.md" rel="noopener">Security</a></li>

diff --git a/site/css/g-shell.css b/site/css/g-shell.css
@@ -208,6 +208,7 @@ nav:not([class]) .brand .wm{font-size:18px;line-height:20px}
 @media (max-width:700px){nav:not([class]) .nav-in,.nav-float nav:not([class]) .nav-in{height:64px;min-height:64px;padding:0 20px}.nav-r{left:20px;right:20px;bottom:calc(20px + env(safe-area-inset-bottom))}nav:not([class]) .nav-r > .btn:first-child{min-width:0;height:40px;min-height:40px;margin:0 0 0 auto;padding:0 12px;font-size:16px}nav:not([class]) .nav-r .g-sq,nav:not([class]) .nav-r .g-menubtn{width:40px;height:40px;min-height:40px}}
 nav:not([class]) .nav-r .g-menubtn,nav:not([class]) .nav-r .g-sq{min-width:40px;max-width:40px;padding:0}
 @media (min-width:701px){nav:not([class]) .nav-in,html.nav-float nav:not([class]) .nav-in{max-width:1480px;margin-left:auto;margin-right:auto}}
+@media (max-width:800px){.g-side{display:none}}
 /* the inner pages' sticky chapter rail sits below the floating header */
 @media (min-width:1024px){.chapter-rail{top:104px}}
 /* a jump to any section lands below the floating header, not under it */

diff --git a/site/_includes/footer.html b/site/_includes/footer.html
@@ -53,6 +53,7 @@
         <ul>
           <li><a href="AINRA_I_The_Standard.md" download>Canonical file (raw)</a></li>
           <li><a href="foundation.html#release-integrity">Release integrity</a></li>
+          <li><a href="control.html">Control room</a></li>
           <li><a href="https://github.com/JacobJandon/ainra/blob/main/docs/DECISIONS.md" rel="noopener">Decision log</a></li>
           <li><a href="https://github.com/JacobJandon/ainra/blob/main/docs/TRADEOFFS.md" rel="noopener">Trade-offs</a></li>
           <li><a href="https://github.com/JacobJandon/ainra/blob/main/SECURITY.md" rel="noopener">Security</a></li>
